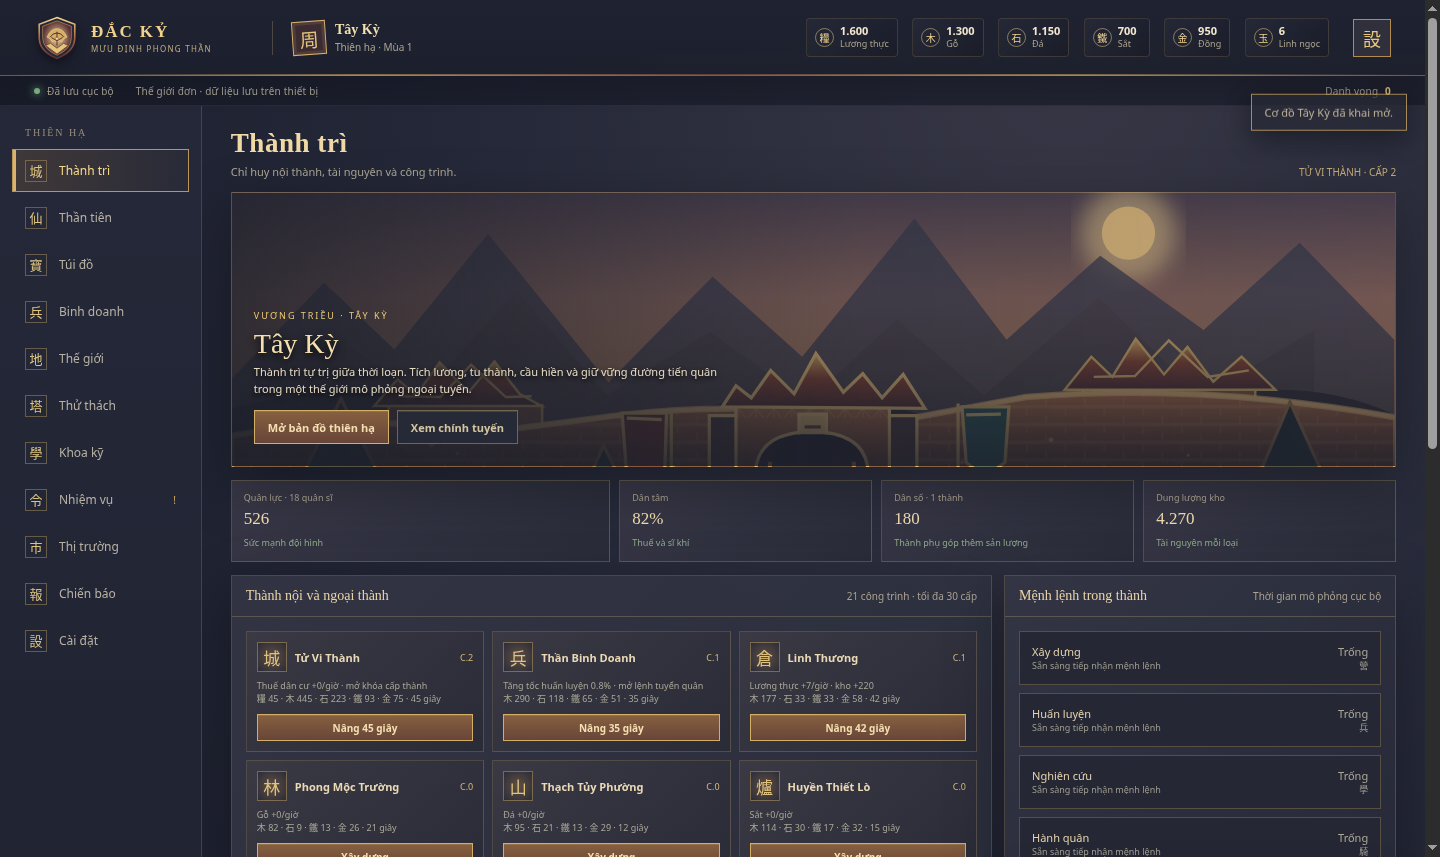
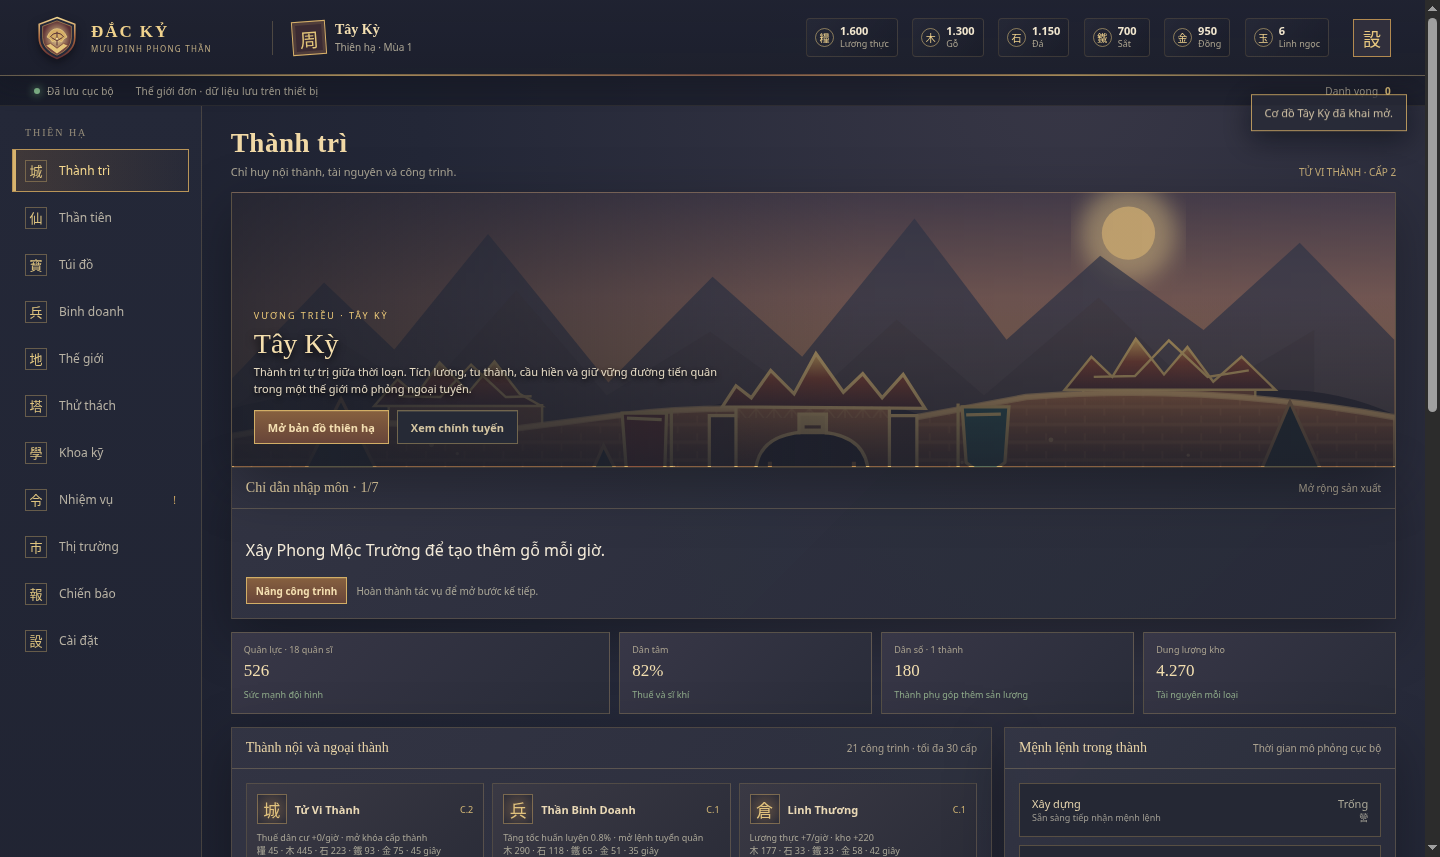
Add stateful Dacky new player tutorial

diff --git a/DackyMobile/src/ui.js b/DackyMobile/src/ui.js
@@ -1,5 +1,5 @@
 import { BUILDINGS, CONTENT_EVIDENCE, HEROES, IMMORTAL_MOUNTAINS, ITEMS, QUESTS, RESOURCE_INFO, TECHNOLOGIES, TROOPS, WORLD_NODES, BUZHOU_FLOORS, TOWER_FLOORS } from './catalog.js';
-import { activeQuest, armyCount, armyPower, formatDuration, formatNumber, heroPower, productionPerHour, questProgress, quoteBuilding, quoteItemPurchase, quoteResearch, quoteTraining, storageCapacity, TAX_POLICIES } from './engine.js';
+import { activeQuest, armyCount, armyPower, formatDuration, formatNumber, heroPower, productionPerHour, questProgress, quoteBuilding, quoteItemPurchase, quoteResearch, quoteTraining, storageCapacity, TAX_POLICIES, TUTORIAL_STEPS } from './engine.js';
 
 export const NAV = [
   ['city','城','Thành trì','Nội thành, kinh tế và hàng đợi'],
@@ -63,6 +63,31 @@ function queuePanel(state, now) {
   return `<section class="panel">${subheading('Mệnh lệnh trong thành','Thời gian mô phỏng cục bộ')}<div class="panel-body">${c}${t}${r}${m}</div></section>`;
 }
 
+function tutorialPanel(state) {
+  const step=TUTORIAL_STEPS[state.tutorialStep];
+  if(!step)return `<section class="panel tutorial-panel">${subheading('Chỉ dẫn nhập môn','Đã hoàn tất')}<div class="panel-body"><p>Thành trì, khoa kỹ, thần tiên, quân đội và trận chiến đầu tiên đã liên kết. Tiếp tục chính tuyến hoặc rèn luyện trước khi tới Triều Ca.</p><div class="field-row">${button('view-world','Mở bản đồ',false,'button small')}${button('view-pve','Thử thách endgame',false,'button ghost small')}</div></div></section>`;
+  let action='';
+  if(step.action==='upgrade'){
+    const q=quoteBuilding(state,step.data.buildingId);
+    action=button('upgrade','Nâng công trình',!!state.queues.construction||q.maxed||q.locked||!isAffordable(state,q.cost),'button small',`data-building="${step.data.buildingId}"`);
+  }else if(step.action==='research'){
+    const q=quoteResearch(state,step.data.techId);
+    action=button('research','Nghiên cứu Nông Chính',!!state.queues.research||q.maxed||!isAffordable(state,q.cost),'button small',`data-tech="${step.data.techId}"`);
+  }else if(step.action==='recruit'){
+    const hero=HEROES.find(row=>row.id===step.data.heroId);
+    action=button('recruit',`Mời ${hero?.name||'thần tiên'}`,!hero||(state.levels.altar||0)<1||(state.levels.manor||0)<1||state.heroes.length>=Math.min(60,3+(state.levels.manor||0)*2)||state.resources.gold<220+(hero?.wisdom||0)*2||state.resources.jade<(hero?.quality==='Thiên'?2:1),'button small',`data-hero="${step.data.heroId}"`);
+  }else if(step.action==='equip'){
+    action=button('equip','Trang bị Bạch Ngọc Kiếm',!state.heroes.some(h=>h.id===step.data.heroId)||!state.items.includes(step.data.itemId),'button small',`data-item="${step.data.itemId}" data-hero="${step.data.heroId}"`);
+  }else if(step.action==='train'){
+    const quote=quoteTraining(state,step.data.troopId,step.data.count);
+    action=button('train','Huấn luyện 1 Dân binh',!!state.queues.training||quote.locked||!isAffordable(state,quote.cost),'button small',`data-troop="${step.data.troopId}" data-count="${step.data.count}"`);
+  }else if(step.action==='march'){
+    const count=state.army[step.data.troopId]||0;
+    action=button('march','Hành quân tới Thanh Khâu Quan',!count||!!state.queues.march,'button small',`data-node="${step.data.nodeId}" data-troop="${step.data.troopId}" data-count="${count}"`);
+  }
+  return `<section class="panel tutorial-panel">${subheading(`Chỉ dẫn nhập môn · ${state.tutorialStep+1}/${TUTORIAL_STEPS.length}`,step.title)}<div class="panel-body"><p>${esc(step.description)}</p>${action}<small class="tiny muted" style="margin-left:9px">Hoàn thành tác vụ để mở bước kế tiếp.</small></div></section>`;
+}
+
 function cityScreen(state, now) {
   const active = activeQuest(state);
   const prod = productionPerHour(state);
@@ -101,7 +126,7 @@ function cityScreen(state, now) {
   const production = Object.entries(RESOURCE_INFO).map(([key,r]) => `<div class="production-line"><span class="resource-glyph">${r.glyph}</span><span>${r.name}</span><b>+${fmt(prod[key])}/giờ</b></div>`).join('');
   const questBody = active ? `<div class="eyebrow">HỒI ${active.chapter} · NHIỆM VỤ MỞ ĐẦU</div><p class="quest-title">${active.title}</p><p class="tiny muted">${fmt(questProgress(state,active))} / ${fmt(active.goal)} · Thưởng ${costText(active.reward)}</p>${button('view-quests','Mở sổ nhiệm vụ',false,'button small')}` : '<div class="empty-state"><strong>Chính tuyến đã khép lại</strong>Mở rộng các thử thách PvE để tiếp tục.</div>';
   const chronicle = state.notifications.slice(0,5).map(text => `<div class="chronicle-entry"><i></i><span>${esc(text)}</span></div>`).join('') || '<span class="muted tiny">Chưa có biến động.</span>';
-  return `${cityHero}${cityOverview}<div class="city-sections"><div><section class="panel">${subheading('Thành nội và ngoại thành','21 công trình · tối đa 30 cấp')}<div class="panel-body"><div class="building-grid">${buildingCards}</div></div></section></div><aside class="city-side">${queuePanel(state,now)}<section class="panel">${subheading('Lưu chuyển tài nguyên')}<div class="panel-body"><div class="production-list">${production}</div></div></section><section class="panel">${subheading('Tin trong thành')}<div class="panel-body"><div class="chronicle">${chronicle}</div></div></section><section class="panel">${subheading('Chính tuyến')}<div class="panel-body">${questBody}</div></section></aside></div>`;
+  return `${cityHero}${tutorialPanel(state)}${cityOverview}<div class="city-sections"><div><section class="panel">${subheading('Thành nội và ngoại thành','21 công trình · tối đa 30 cấp')}<div class="panel-body"><div class="building-grid">${buildingCards}</div></div></section></div><aside class="city-side">${queuePanel(state,now)}<section class="panel">${subheading('Lưu chuyển tài nguyên')}<div class="panel-body"><div class="production-list">${production}</div></div></section><section class="panel">${subheading('Tin trong thành')}<div class="panel-body"><div class="chronicle">${chronicle}</div></div></section><section class="panel">${subheading('Chính tuyến')}<div class="panel-body">${questBody}</div></section></aside></div>`;
 }
 
 function heroScreen(state, _now, uiState={}) {

diff --git a/DackyMobile/src/engine.js b/DackyMobile/src/engine.js
@@ -9,6 +9,15 @@ export const TAX_POLICIES=Object.freeze({
   balanced:Object.freeze({label:'Trung dung',income:1,moralePerHour:0}),
   heavy:Object.freeze({label:'Thuế nặng',income:1.3,moralePerHour:-0.24})
 });
+export const TUTORIAL_STEPS=Object.freeze([
+  Object.freeze({title:'Mở rộng sản xuất',description:'Xây Phong Mộc Trường để tạo thêm gỗ mỗi giờ.',action:'upgrade',data:{buildingId:'lumber'},complete:s=>(s.levels.lumber||0)>0}),
+  Object.freeze({title:'Khai mở khoa kỹ',description:'Nghiên cứu Nông Chính tại Thái Học Viện.',action:'research',data:{techId:'tech-01'},complete:s=>(s.technologies['tech-01']||0)>0}),
+  Object.freeze({title:'Dựng Phong Thần Đàn',description:'Mở nơi chiêu mộ thần tiên trong cơ đồ.',action:'upgrade',data:{buildingId:'altar'},complete:s=>(s.levels.altar||0)>0}),
+  Object.freeze({title:'Chiêu mộ đồng hành',description:'Mời một thần tiên nhập phủ.',action:'recruit',data:{heroId:'hero-02'},complete:s=>s.stats.heroesRecruited>0}),
+  Object.freeze({title:'Trang bị thần tiên',description:'Trang bị Bạch Ngọc Kiếm cho đội hình.',action:'equip',data:{itemId:'item-01',heroId:'hero-01'},complete:s=>s.stats.itemsEquipped>0}),
+  Object.freeze({title:'Bổ sung quân đội',description:'Huấn luyện thêm một Dân binh.',action:'train',data:{troopId:'troop-01',count:1},complete:s=>s.stats.troopsTrained>0}),
+  Object.freeze({title:'Mở đường chiến dịch',description:'Hành quân tới Thanh Khâu Quan và thắng trận đầu.',action:'march',data:{nodeId:'node-001',troopId:'troop-01'},complete:s=>s.stats.victories>0})
+]);
 const clone = value => structuredClone(value);
 const clamp = (v, lo, hi) => Math.max(lo, Math.min(hi, v));
 
@@ -140,7 +149,7 @@ export function migrateSave(input, now = Date.now()) {
   s.notifications = Array.isArray(s.notifications) ? s.notifications.filter(x=>typeof x==='string').slice(0,12) : [];
   s.settings = { ...DEFAULT_SETTINGS, ...(s.settings || {}) };
   for(const key of Object.keys(DEFAULT_SETTINGS))if(typeof s.settings[key]!=='boolean')s.settings[key]=DEFAULT_SETTINGS[key];
-  s.tutorialStep=clamp(Number(s.tutorialStep)||0,0,5);
+  s.tutorialStep=clamp(Number(s.tutorialStep)||0,0,TUTORIAL_STEPS.length);
   s.nextReportId=Math.max(Number(s.nextReportId)||1,...s.reports.map(r=>(Number(r.id)||0)+1));
   s.lastTickAt = Math.min(Number(s.lastTickAt) || now, now);
   s.version = SAVE_VERSION;
@@ -292,6 +301,16 @@ function note(state, message) {
   state.notifications = state.notifications.slice(0, 12);
 }
 
+function updateTutorial(state) {
+  let step=0;
+  while(step<TUTORIAL_STEPS.length&&TUTORIAL_STEPS[step].complete(state))step++;
+  if(step>state.tutorialStep){
+    const message=step===TUTORIAL_STEPS.length?'Tân chủ đã hoàn tất chỉ dẫn nhập môn; hãy tiếp tục chính tuyến và chinh phục thiên hạ.':`Chỉ dẫn nhập môn hoàn thành. ${TUTORIAL_STEPS[step].title} là bước tiếp theo.`;
+    note(state,message);
+  }
+  state.tutorialStep=step;
+}
+
 function report(state, entry) {
   const id = state.nextReportId++;
   state.reports.unshift({ id, at: Date.now(), ...entry });
@@ -436,6 +455,7 @@ export function advance(state, now = Date.now()) {
   completeQueue(next, 'training', now);
   completeQueue(next, 'research', now);
   completeQueue(next, 'march', now);
+  updateTutorial(next);
   return { state: next, elapsedSeconds: elapsed, offlineCapped: rawElapsed > OFFLINE_CAP_SECONDS };
 }
 
@@ -713,7 +733,6 @@ export function doAction(state, action, now = Date.now()) {
       s.claims.push(q.id);
       credit(s, q.reward);
       s.fame += 4 + q.chapter;
-      if (s.tutorialStep < 5) s.tutorialStep++;
       note(s, `Đã nhận thưởng nhiệm vụ: ${q.title}.`);
       break;
     }
@@ -726,13 +745,13 @@ export function doAction(state, action, now = Date.now()) {
       note(s, `${HEROES.find(x => x.id === h.id)?.name} ${h.assigned ? 'đã vào đội hình' : 'đã nghỉ tại Tiên Gia Phủ'}.`);
       break;
     }
-    case 'tutorial': s.tutorialStep = Math.max(s.tutorialStep, Number(action.step) || 0); break;
     case 'setting':
       if (!(action.key in s.settings)) throw new Error('Tùy chỉnh không hợp lệ.');
       s.settings[action.key] = Boolean(action.value);
       break;
     default: throw new Error('Thao tác không được hỗ trợ.');
   }
+  updateTutorial(s);
   return migrateSave(s, now);
 }
 

diff --git a/DackyMobile/src/main.js b/DackyMobile/src/main.js
@@ -139,20 +139,20 @@ document.body.addEventListener('click', async event => {
       return;
     case 'upgrade': return perform('upgrade',{buildingId:button.dataset.building});
     case 'setTaxPolicy': return perform('setTaxPolicy',{policy:button.dataset.policy});
-    case 'train': return perform('train',{troopId:document.querySelector('#train-unit')?.value,count:document.querySelector('#train-count')?.value});
+    case 'train': return perform('train',{troopId:document.querySelector('#train-unit')?.value||button.dataset.troop,count:document.querySelector('#train-count')?.value||button.dataset.count});
     case 'trainHero': return perform('trainHero',{heroId:button.dataset.hero});
     case 'recruit': return perform('recruit',{heroId:button.dataset.hero});
     case 'assignHero': return perform('assignHero',{heroId:button.dataset.hero});
-    case 'equip': return perform('equip',{itemId:button.dataset.item,heroId:document.querySelector(`[data-equip-select="${button.dataset.item}"]`)?.value});
+    case 'equip': return perform('equip',{itemId:button.dataset.item,heroId:document.querySelector(`[data-equip-select="${button.dataset.item}"]`)?.value||button.dataset.hero});
     case 'useItem': return perform('useItem',{itemId:button.dataset.item,index:Number(button.dataset.index)});
     case 'buyItem': return perform('buyItem',{itemId:button.dataset.item});
     case 'forge': return perform('forge',{itemId:button.dataset.item});
     case 'research': return perform('research',{techId:button.dataset.tech});
     case 'scout': return perform('scout',{nodeId:button.dataset.node||uiState.nodeId});
     case 'march': {
-      const troopId=document.querySelector('#march-unit')?.value;
+      const troopId=document.querySelector('#march-unit')?.value||button.dataset.troop;
       const troops={};
-      const count=Number(document.querySelector('#march-count')?.value)||0;
+      const count=Number(document.querySelector('#march-count')?.value||button.dataset.count)||0;
       if(troopId&&count>0)troops[troopId]=count;
       document.querySelectorAll('[data-march-support]').forEach(input=>{
         const amount=Math.max(0,Number(input.value)||0);

diff --git a/DackyMobile/tests/engine.test.js b/DackyMobile/tests/engine.test.js
@@ -51,6 +51,34 @@ test('completed academy research changes the linked economy', () => {
   }
 });
 
+test('new-player tutorial unlocks only after its seven gameplay milestones', () => {
+  const now=1_800_000_000_000;
+  let state=createNewGame('Triều Ca',now);
+  assert.equal(state.tutorialStep,0);
+  state=doAction(state,{type:'upgrade',buildingId:'lumber'},now+1);
+  assert.equal(state.tutorialStep,0);
+  state=advance(state,state.queues.construction.finishAt+1).state;
+  assert.equal(state.tutorialStep,1);
+  state=doAction(state,{type:'research',techId:'tech-01'},state.lastTickAt+1);
+  state=advance(state,state.queues.research.finishAt+1).state;
+  assert.equal(state.tutorialStep,2);
+  state=doAction(state,{type:'upgrade',buildingId:'altar'},state.lastTickAt+1);
+  state=advance(state,state.queues.construction.finishAt+1).state;
+  assert.equal(state.tutorialStep,3);
+  state=doAction(state,{type:'recruit',heroId:'hero-02'},state.lastTickAt+1);
+  assert.equal(state.tutorialStep,4);
+  state=doAction(state,{type:'equip',heroId:'hero-01',itemId:'item-01'},state.lastTickAt+1);
+  assert.equal(state.tutorialStep,5);
+  state=doAction(state,{type:'train',troopId:'troop-01',count:1},state.lastTickAt+1);
+  state=advance(state,state.queues.training.finishAt+1).state;
+  assert.equal(state.tutorialStep,6);
+  const count=state.army['troop-01'];
+  state=doAction(state,{type:'march',nodeId:'node-001',troopId:'troop-01',count},state.lastTickAt+1);
+  state=advance(state,state.queues.march.finishAt+1).state;
+  assert.equal(state.stats.victories,1);
+  assert.equal(state.tutorialStep,7);
+});
+
 test('specialized research improves troops, heroes, healing, scouting and combat', () => {
   const now=1_800_000_000_000;
   const base=createNewGame('Triều Ca',now);

diff --git a/DackyMobile/PROGRESS.md b/DackyMobile/PROGRESS.md
@@ -4,19 +4,20 @@ Cập nhật: 2026-11-24 · Nhánh: feature/dacky-mobile-complete-20261124
 
 ## Checkpoint
 
-- HEAD lúc bắt đầu: 4023325d441a7f818f7346586b1ee6e19943a5cc (origin/feature/dacky-mobile-complete-20261124). Checkpoint đầu lô trước: 319480ff27224f26c6d6283bbc7fd738dd3b520f; batch kế tiếp bắt đầu từ bc8b3bc6e6fe91e2f15e2e73114f438ce26f6fe3.
+- HEAD lúc bắt đầu: 4023325d441a7f818f7346586b1ee6e19943a5cc (origin/feature/dacky-mobile-complete-20261124). Các checkpoint gần: 319480ff27224f26c6d6283bbc7fd738dd3b520f, bc8b3bc6e6fe91e2f15e2e73114f438ce26f6fe3; batch khoa kỹ bắt đầu tại bc8b3bc6e6fe91e2f15e2e73114f438ce26f6fe3 và batch tutorial hiện tại tại 0fb5cf62a64af15703e96c95d2444e6f7331216e.
 - Codebase web độc lập, offline-first: thành trì, sáu tài nguyên, 21 công trình tới cấp 30, sản xuất theo giờ, queue xây/nghiên cứu/huấn luyện/hành quân, 39 binh chủng mô phỏng, đủ 540 thần tiên mô phỏng, túi đồ/rèn, khoa kỹ, 1.158 nhiệm vụ, 120 địa điểm chiến dịch có Boss Trụ Vương và 624 Tiên Sơn thử thách riêng, chiến báo, Phong Thần Tháp và 5 cửa Bất Chu.
 - Chiến dịch mô phỏng có 8 chương, 1.158 mục tiêu, mở Boss Trụ Vương sau 20 thắng/7 thành; thắng đầu lưu cờ kết cục, thưởng duy nhất và cho phép tiếp tục endgame.
 - Gameplay loop đã nối: nâng công trình → huấn luyện/chiêu mộ/trang bị → hành quân nhiều stack → combat/tổn thất/loot → nâng cấp/nhiệm vụ → save/reload. Capture thành phụ, sản lượng bổ sung, minh hội NPC và minh ước NPC có runtime. Mô hình gameplay là độc lập `SIMULATED`, chưa đối chiếu client Mobile.
 - Giao diện responsive tiếng Việt, bản đồ tương tác, vector art SVG tự tạo, IndexedDB + localStorage dự phòng, import/export save, PWA/service worker, build Web static, một file offline và database JSON chuẩn hóa có thể tái sinh từ cùng catalog (4.676 record mô phỏng).
 - Lô hiện tại nối 540 vật phẩm tiêu hao vào cửa hàng NPC, giới hạn túi 500, hiệu ứng mua/dùng và lưu số lượt mua; XP tự lên nhiều cấp và tăng kỹ năng; bốn pháp môn có hiệu lực trong combat/PvE; ba chính sách thuế điều chỉnh đồng, dân tâm và tăng dân số.
 - Khoa kỹ 19 nhánh/570 cấp nay tác động vào kinh tế, xây dựng, huấn luyện, quân chuyên môn, combat, hồi phục, hành quân, thần tiên, trinh sát và giao thương/ngoại giao.
+- Chỉ dẫn tân thủ 7 mốc tự kiểm tra tiến trình xây/nghiên cứu/chiêu mộ/trang bị/huấn luyện/chiến đấu; các nút hướng dẫn thực thi gameplay thật và chỉ tiến bước khi đạt điều kiện.
 
 ## Kiểm chứng thực tế
 
-- `npm test`: PASS 16/16 engine tests, gồm catalog, Tiên Sơn/Boss, mua/dùng vật phẩm, XP-kỹ năng, pháp môn combat, 19 nhánh khoa kỹ và thuế/dân tâm.
+- `npm test`: PASS 17/17 engine tests, gồm tutorial đầu-cuối, catalog, Tiên Sơn/Boss, mua/dùng vật phẩm, XP-kỹ năng, pháp môn combat, 19 nhánh khoa kỹ và thuế/dân tâm.
 - `npm run build`: PASS; build Web, `dist/offline.html` và `dist/data/dacky-game-data.simulated.v1.json`; kiểm tra JSON xác nhận 4.676 record SIMULATED trên 8 bảng.
-- Chromium integration: PASS onboarding, 21 công trình, 11 màn hình, đổi chính sách thuế, phân trang/mua vật phẩm, nâng công trình, chiêu mộ, trang bị, huấn luyện, hành quân nhiều stack, loot/chiến báo, IndexedDB reload, viewport 390×844 và 844×390; 0 lỗi console/runtime. Ảnh ở `qa/screenshots/`.
+- Chromium integration: PASS onboarding và thẻ chỉ dẫn, 21 công trình, 11 màn hình, đổi chính sách thuế, phân trang/mua vật phẩm, nâng công trình, chiêu mộ, trang bị, huấn luyện, hành quân nhiều stack, loot/chiến báo, IndexedDB reload, viewport 390×844 và 844×390; 0 lỗi console/runtime. Ảnh ở `qa/screenshots/`.
 - PWA: PASS mở lại entrypoint khi tắt mạng và shell đã được cache.
 - Hạn chế môi trường: Chromium trả `chrome-error://chromewebdata/` với URL `file://.../offline.html`; bundle inline đã qua syntax check. Thiếu Android SDK/Gradle nên APK/AAB chưa build. Không tuyên bố V1.0 hoàn thành.
 
@@ -33,7 +34,7 @@ Cập nhật: 2026-11-24 · Nhánh: feature/dacky-mobile-complete-20261124
 
 ## Bước tiếp theo
 
-1. Hoàn thiện hướng dẫn tân thủ, điều kiện mở khóa và quản lý thành phụ; nối kinh tế/campaign theo nhịp tiến triển đầu đến cuối game.
+1. Hoàn thiện điều kiện mở khóa, quản lý/nâng cấp thành phụ và độ dài campaign; cân bằng runtime theo nhịp tiến triển đầu đến cuối game.
 2. Khi có Android SDK/Gradle, tạo project Capacitor native, build/cài APK và kiểm tra luồng cốt lõi.
 3. Khi dữ liệu nguồn được cung cấp hoặc proxy cho phép, xác minh Mobile riêng, nhập dữ liệu hợp pháp và cập nhật `DATA_COVERAGE.json`.
 4. Giữ nhánh feature/dacky-mobile-complete-20261124 làm checkpoint hiện tại. Tiếp tục bằng các mục P0–P7 còn mở; không merge, không force-push, không đụng Heroes/Mưu Định Tam Quốc.

diff --git a/DackyMobile/DECISIONS.md b/DackyMobile/DECISIONS.md
@@ -24,3 +24,4 @@
 - Bốn pháp môn đội hình áp dụng hệ số SIMULATED cụ thể vào combat quân đội và thử thách thần tiên; chiến báo ghi lại pháp môn đã tham chiến.
 - Thuế khoan giảm / trung dung / nặng thay đổi thu đồng, độ trôi dân tâm và tốc độ dân số; save cũ được migration về trung dung.
 - Cả 19 nhánh khoa kỹ có hiệu ứng runtime: bốn tài nguyên, tăng dân số, xây/nghiên cứu/huấn luyện, tấn công/phòng thủ và chuyên môn kỵ/xạ, hồi thương, tương khắc, hành quân, lực chiến thần tiên, phí trinh sát và giao thương/ngoại giao. Các hệ số hiển thị đúng theo nhánh và đều SIMULATED.
+- Chỉ dẫn tân thủ có bảy mốc dựa trên trạng thái gameplay đã lưu. Các hành động đề xuất gọi cùng action runtime và bước kế tiếp chỉ mở sau khi queue/trận thật hoàn tất; save cũ tự xác định lại bước từ thành tựu, không thể nhấn để bỏ qua.

diff --git a/DackyMobile/docs/GAMEPLAY_WIKI.md b/DackyMobile/docs/GAMEPLAY_WIKI.md
@@ -4,6 +4,8 @@
 
 ## Thành trì
 
+Chỉ dẫn nhập môn lần lượt mở xây Phong Mộc Trường, nghiên cứu Nông Chính, dựng Phong Thần Đàn, chiêu mộ thần tiên, trang bị, huấn luyện và trận thắng đầu tiên. Các nút dùng hành động runtime; chỉ dẫn lưu theo save và nhận biết khi queue/trận hoàn tất.
+
 Tử Vi Thành quản lý cấp thành, dân số và mở khóa. Hai mươi công trình khác được chia thành nội thành, kinh tế, quân sự, nghiên cứu, thần tiên và ngoại thành. Bấm Xây dựng/Nâng để trừ chi phí ngay; cấp mới chỉ có hiệu lực khi bộ đếm hoàn tất. Mỗi công trình có giới hạn cấp 30, một hàng đợi chung.
 
 | Công trình | Tác dụng runtime |
